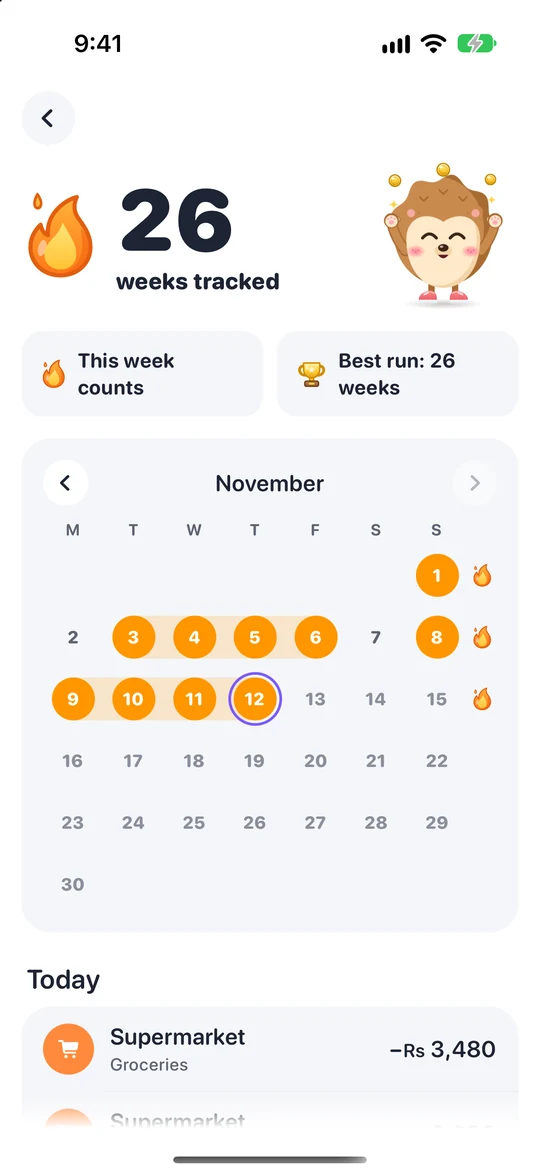
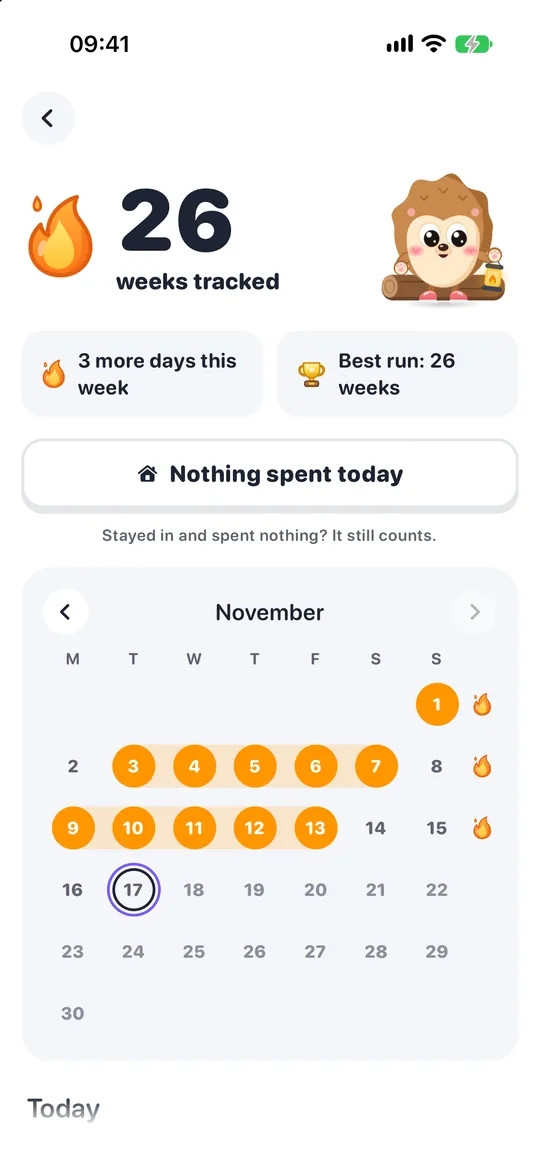
Pouch screens: new Hedge's trip and streak shots
The trip shot shows the new forest trail under the clouds and is back in
the Hedge tab (Week counted stays as the page cover). The streak shot is
re-taken with Hedge's own look there, sitting on a log with his lantern.

diff --git a/work/pouch.html b/work/pouch.html
@@ -52,7 +52,7 @@
       </div><div class="demo compact">
         <div class="demo-phone"><div class="phone"><div class="screen"><video src="../video/pouch-trip.mp4" poster="../video/pouch-trip-poster.webp" muted loop playsinline preload="none" aria-label="Hedge&#x27;s trip"></video></div></div></div>
         <div class="demo-ctl"><h3>Hedge&#x27;s trip</h3><ol class="demo-steps"><li data-at="0"><button type="button"><span class="bar"><i></i></span><span class="k">Today</span><span class="d">Tap Hedge on Today.</span></button></li><li data-at="1.4"><button type="button"><span class="bar"><i></i></span><span class="k">Opens</span><span class="d">His trip opens on the forest trail.</span></button></li><li data-at="4.9"><button type="button"><span class="bar"><i></i></span><span class="k">Closes</span><span class="d">Close it and he lands back on Today.</span></button></li></ol><p class="demo-caption" aria-live="polite">Tap Hedge on Today.</p></div>
-      </div></div></section><section class="cs-sec" id="notes"><h2>Why each part is there</h2><p class="sub">Hover a note to find it on the screen.</p><div class="hss" data-reveal><figure class="hs"><div class="phone"><div class="screen"><img src="../img/apps/pouch-today.webp" alt="Why each part is there" loading="lazy" srcset="../img/apps/pouch-today-300.webp 300w, ../img/apps/pouch-today.webp 540w" sizes="(max-width: 640px) 34vw, (max-width: 900px) 160px, 240px"></div><span class="hs-dot" data-n="1" style="left:8.9%;top:22.9%">1</span><span class="hs-dot" data-n="2" style="left:91.1%;top:31.9%">2</span><span class="hs-dot" data-n="3" style="left:8.9%;top:45.2%">3</span><span class="hs-dot" data-n="4" style="left:67.9%;top:82.3%">4</span></div><ol class="hs-list"><li data-n="1"><span class="hs-n">1</span><div><b>One number first</b><span>Safe to spend, worked out for you.</span></div></li><li data-n="2"><span class="hs-n">2</span><div><b>Never red</b><span>Past the plan it says extra, in grey.</span></div></li><li data-n="3"><span class="hs-n">3</span><div><b>Savings in one tap</b><span>The pouch fills as you save.</span></div></li><li data-n="4"><span class="hs-n">4</span><div><b>In thumb reach</b><span>Add sits bottom right.</span></div></li></ol></figure><figure class="hs"><div class="phone"><div class="screen"><img src="../img/apps/pouch-paste-filled.webp" alt="Why each part is there" loading="lazy" srcset="../img/apps/pouch-paste-filled-300.webp 300w, ../img/apps/pouch-paste-filled.webp 540w" sizes="(max-width: 640px) 34vw, (max-width: 900px) 160px, 240px"></div><span class="hs-dot" data-n="5" style="left:91.1%;top:20.6%">5</span><span class="hs-dot" data-n="6" style="left:8.9%;top:30.0%">6</span><span class="hs-dot" data-n="7" style="left:91.1%;top:43.4%">7</span><span class="hs-dot" data-n="8" style="left:8.9%;top:76.6%">8</span></div><ol class="hs-list"><li data-n="5"><span class="hs-n">5</span><div><b>Hedge reacts</b><span>He says how the spend fits today.</span></div></li><li data-n="6"><span class="hs-n">6</span><div><b>Today&#x27;s range</b><span>See where it lands before saving.</span></div></li><li data-n="7"><span class="hs-n">7</span><div><b>Filled from the bank text</b><span>Shop and card come from the SMS.</span></div></li><li data-n="8"><span class="hs-n">8</span><div><b>A keypad of its own</b><span>Never hidden by the keyboard.</span></div></li></ol></figure></div></section><section class="cs-sec" id="cuts"><h2>What I cut and why</h2><p class="sub">Two things I built, then took out.</p><div class="bas" data-reveal><div class="ba"><div class="ba-top"><b>Red when you overspend</b><span>Guilt stops people logging.</span></div><div class="ba-pair"><div class="ba-side is-before"><small>Before</small><em class="mini-l">Groceries</em><span class="mini"><i style="width:100%"></i></span><em class="mini-t">Rs 520 over</em></div><div class="ba-side is-now"><small>Now</small><em class="mini-l">Groceries</em><span class="mini"><i style="width:100%"></i></span><em class="mini-t">Rs 520 extra</em></div></div></div><div class="ba"><div class="ba-top"><b>A minus balance</b><span>A minus reads as failure.</span></div><div class="ba-pair"><div class="ba-side is-before"><small>Before</small><em class="mini-l">Safe to spend today</em><em class="mini-big">-Rs 1,200</em></div><div class="ba-side is-now"><small>Now</small><em class="mini-l">Safe to spend today</em><em class="mini-big">Rs 0</em></div></div></div></div></section><section class="cs-sec" id="screens"><h2>Screens</h2><p class="sub">Pick a part of the app.</p><div class="viewer" data-reveal><div class="vw-tabs" role="tablist"><button type="button" class="vw-tab is-on" role="tab" aria-selected="true">Setup</button><button type="button" class="vw-tab" role="tab" aria-selected="false">Log a spend</button><button type="button" class="vw-tab" role="tab" aria-selected="false">Budget</button><button type="button" class="vw-tab" role="tab" aria-selected="false">Wallets and big buys</button><button type="button" class="vw-tab" role="tab" aria-selected="false">Any currency</button><button type="button" class="vw-tab" role="tab" aria-selected="false">Hedge</button><button type="button" class="vw-tab" role="tab" aria-selected="false">Dark mode</button></div><div class="vw-panel is-on" role="tabpanel"><div class="vw-row"><figure><div class="phone"><div class="screen"><img src="../img/apps/pouch-welcome.webp" alt="Pouch, The welcome: Hedge climbs the Pouch wall." loading="lazy" decoding="async" srcset="../img/apps/pouch-welcome-300.webp 300w, ../img/apps/pouch-welcome.webp 540w" sizes="(max-width: 640px) 34vw, (max-width: 900px) 160px, 240px"></div></div><figcaption><span class="n">1</span>The welcome: Hedge climbs the Pouch wall.</figcaption></figure><figure><div class="phone"><div class="screen"><img src="../img/apps/pouch-split.webp" alt="Pouch, Split your pay until All planned." loading="lazy" decoding="async" srcset="../img/apps/pouch-split-300.webp 300w, ../img/apps/pouch-split.webp 540w" sizes="(max-width: 640px) 34vw, (max-width: 900px) 160px, 240px"></div></div><figcaption><span class="n">2</span>Split your pay until All planned.</figcaption></figure><figure><div class="phone"><div class="screen"><img src="../img/apps/pouch-today.webp" alt="Pouch, Today shows what is safe to spend." loading="lazy" decoding="async" srcset="../img/apps/pouch-today-300.webp 300w, ../img/apps/pouch-today.webp 540w" sizes="(max-width: 640px) 34vw, (max-width: 900px) 160px, 240px"></div></div><figcaption><span class="n">3</span>Today shows what is safe to spend.</figcaption></figure></div></div><div class="vw-panel" role="tabpanel"><div class="vw-row"><figure><div class="phone"><div class="screen"><img src="../img/apps/pouch-paste-row.webp" alt="Pouch, Copy a bank text and Paste appears." loading="lazy" decoding="async" srcset="../img/apps/pouch-paste-row-300.webp 300w, ../img/apps/pouch-paste-row.webp 540w" sizes="(max-width: 640px) 34vw, (max-width: 900px) 160px, 240px"></div></div><figcaption><span class="n">1</span>Copy a bank text and Paste appears.</figcaption></figure><figure><div class="phone"><div class="screen"><img src="../img/apps/pouch-paste-filled.webp" alt="Pouch, One tap fills in the amount and shop." loading="lazy" decoding="async" srcset="../img/apps/pouch-paste-filled-300.webp 300w, ../img/apps/pouch-paste-filled.webp 540w" sizes="(max-width: 640px) 34vw, (max-width: 900px) 160px, 240px"></div></div><figcaption><span class="n">2</span>One tap fills in the amount and shop.</figcaption></figure><figure><div class="phone"><div class="screen"><img src="../img/apps/pouch-add-these.webp" alt="Pouch, Siri payments wait on Today." loading="lazy" decoding="async" srcset="../img/apps/pouch-add-these-300.webp 300w, ../img/apps/pouch-add-these.webp 540w" sizes="(max-width: 640px) 34vw, (max-width: 900px) 160px, 240px"></div></div><figcaption><span class="n">3</span>Siri payments wait on Today.</figcaption></figure></div></div><div class="vw-panel" role="tabpanel"><div class="vw-row"><figure><div class="phone"><div class="screen"><img src="../img/apps/pouch-budget.webp" alt="Pouch, Categories in families, with what is left." loading="lazy" decoding="async" srcset="../img/apps/pouch-budget-300.webp 300w, ../img/apps/pouch-budget.webp 540w" sizes="(max-width: 640px) 34vw, (max-width: 900px) 160px, 240px"></div></div><figcaption><span class="n">1</span>Categories in families, with what is left.</figcaption></figure><figure><div class="phone"><div class="screen"><img src="../img/apps/pouch-pot-edit.webp" alt="Pouch, Each has its own colour and icon." loading="lazy" decoding="async" srcset="../img/apps/pouch-pot-edit-300.webp 300w, ../img/apps/pouch-pot-edit.webp 540w" sizes="(max-width: 640px) 34vw, (max-width: 900px) 160px, 240px"></div></div><figcaption><span class="n">2</span>Each has its own colour and icon.</figcaption></figure><figure><div class="phone"><div class="screen"><img src="../img/apps/pouch-overview.webp" alt="Pouch, See where the month went." loading="lazy" decoding="async" srcset="../img/apps/pouch-overview-300.webp 300w, ../img/apps/pouch-overview.webp 540w" sizes="(max-width: 640px) 34vw, (max-width: 900px) 160px, 240px"></div></div><figcaption><span class="n">3</span>See where the month went.</figcaption></figure></div></div><div class="vw-panel" role="tabpanel"><div class="vw-row"><figure><div class="phone"><div class="screen"><img src="../img/apps/pouch-wallets.webp" alt="Pouch, Every wallet in one list." loading="lazy" decoding="async" srcset="../img/apps/pouch-wallets-300.webp 300w, ../img/apps/pouch-wallets.webp 540w" sizes="(max-width: 640px) 34vw, (max-width: 900px) 160px, 240px"></div></div><figcaption><span class="n">1</span>Every wallet in one list.</figcaption></figure><figure><div class="phone"><div class="screen"><img src="../img/apps/pouch-bigbuy-tiles.webp" alt="Pouch, Big buys paid off in parts." loading="lazy" decoding="async" srcset="../img/apps/pouch-bigbuy-tiles-300.webp 300w, ../img/apps/pouch-bigbuy-tiles.webp 540w" sizes="(max-width: 640px) 34vw, (max-width: 900px) 160px, 240px"></div></div><figcaption><span class="n">2</span>Big buys paid off in parts.</figcaption></figure><figure><div class="phone"><div class="screen"><img src="../img/apps/pouch-entries.webp" alt="Pouch, Every entry by day." loading="lazy" decoding="async" srcset="../img/apps/pouch-entries-300.webp 300w, ../img/apps/pouch-entries.webp 540w" sizes="(max-width: 640px) 34vw, (max-width: 900px) 160px, 240px"></div></div><figcaption><span class="n">3</span>Every entry by day.</figcaption></figure></div></div><div class="vw-panel" role="tabpanel"><div class="vw-row"><figure><div class="phone"><div class="screen"><img src="../img/apps/pouch-income.webp" alt="Pouch, Income has its own categories." loading="lazy" decoding="async" srcset="../img/apps/pouch-income-300.webp 300w, ../img/apps/pouch-income.webp 540w" sizes="(max-width: 640px) 34vw, (max-width: 900px) 160px, 240px"></div></div><figcaption><span class="n">1</span>Income has its own categories.</figcaption></figure><figure><div class="phone"><div class="screen"><img src="../img/apps/pouch-paid-in.webp" alt="Pouch, Paid from abroad? Today&#x27;s rate." loading="lazy" decoding="async" srcset="../img/apps/pouch-paid-in-300.webp 300w, ../img/apps/pouch-paid-in.webp 540w" sizes="(max-width: 640px) 34vw, (max-width: 900px) 160px, 240px"></div></div><figcaption><span class="n">2</span>Paid from abroad? Today&#x27;s rate.</figcaption></figure><figure><div class="phone"><div class="screen"><img src="../img/apps/pouch-today-si.webp" alt="Pouch, 13 languages, Sinhala and Tamil too." loading="lazy" decoding="async" srcset="../img/apps/pouch-today-si-300.webp 300w, ../img/apps/pouch-today-si.webp 540w" sizes="(max-width: 640px) 34vw, (max-width: 900px) 160px, 240px"></div></div><figcaption><span class="n">3</span>13 languages, Sinhala and Tamil too.</figcaption></figure></div></div><div class="vw-panel" role="tabpanel"><div class="vw-row"><figure><div class="phone"><div class="screen"><img src="../img/apps/pouch-celebrate-week.webp" alt="Pouch, He cheers every week you track." loading="lazy" decoding="async" srcset="../img/apps/pouch-celebrate-week-300.webp 300w, ../img/apps/pouch-celebrate-week.webp 540w" sizes="(max-width: 640px) 34vw, (max-width: 900px) 160px, 240px"></div></div><figcaption><span class="n">1</span>He cheers every week you track.</figcaption></figure><figure><div class="phone"><div class="screen"><img src="../img/apps/pouch-streak.webp" alt="Pouch, Weeks, not days, so quiet days count." loading="lazy" decoding="async" srcset="../img/apps/pouch-streak-300.webp 300w, ../img/apps/pouch-streak.webp 540w" sizes="(max-width: 640px) 34vw, (max-width: 900px) 160px, 240px"></div></div><figcaption><span class="n">2</span>Weeks, not days, so quiet days count.</figcaption></figure><figure><div class="phone"><div class="screen"><img src="../img/apps/pouch-wardrobe.webp" alt="Pouch, Gems buy outfits from a wardrobe of 51." loading="lazy" decoding="async" srcset="../img/apps/pouch-wardrobe-300.webp 300w, ../img/apps/pouch-wardrobe.webp 540w" sizes="(max-width: 640px) 34vw, (max-width: 900px) 160px, 240px"></div></div><figcaption><span class="n">3</span>Gems buy outfits from a wardrobe of 51.</figcaption></figure></div></div><div class="vw-panel" role="tabpanel"><div class="vw-row"><figure><div class="phone"><div class="screen"><img src="../img/apps/pouch-dark-today.webp" alt="Pouch, Today in dark mode." loading="lazy" decoding="async" srcset="../img/apps/pouch-dark-today-300.webp 300w, ../img/apps/pouch-dark-today.webp 540w" sizes="(max-width: 640px) 34vw, (max-width: 900px) 160px, 240px"></div></div><figcaption><span class="n">1</span>Today in dark mode.</figcaption></figure><figure><div class="phone"><div class="screen"><img src="../img/apps/pouch-dark-new.webp" alt="Pouch, A new entry, every colour checked for contrast." loading="lazy" decoding="async" srcset="../img/apps/pouch-dark-new-300.webp 300w, ../img/apps/pouch-dark-new.webp 540w" sizes="(max-width: 640px) 34vw, (max-width: 900px) 160px, 240px"></div></div><figcaption><span class="n">2</span>A new entry, every colour checked for contrast.</figcaption></figure><figure><div class="phone"><div class="screen"><img src="../img/apps/pouch-dark-budget.webp" alt="Pouch, Budget in dark mode." loading="lazy" decoding="async" srcset="../img/apps/pouch-dark-budget-300.webp 300w, ../img/apps/pouch-dark-budget.webp 540w" sizes="(max-width: 640px) 34vw, (max-width: 900px) 160px, 240px"></div></div><figcaption><span class="n">3</span>Budget in dark mode.</figcaption></figure></div></div><div class="vw-clock"><i></i></div></div></section><section class="cs-sec" id="next"><h2>What I learned and what is next</h2><div class="lns" data-reveal><div class="ln"><span class="ln-k">01</span><b>Kind beats strict</b><span>Friendly words keep people logging.</span></div><div class="ln"><span class="ln-k">02</span><b>I use it daily</b><span>Most fixes came from my own logging.</span></div><div class="ln is-next"><span class="ln-k">Next</span><b>Outside testers, then the App Store</b><span>Then watch days logged a week and time to log a spend.</span></div></div></section>
+      </div></div></section><section class="cs-sec" id="notes"><h2>Why each part is there</h2><p class="sub">Hover a note to find it on the screen.</p><div class="hss" data-reveal><figure class="hs"><div class="phone"><div class="screen"><img src="../img/apps/pouch-today.webp" alt="Why each part is there" loading="lazy" srcset="../img/apps/pouch-today-300.webp 300w, ../img/apps/pouch-today.webp 540w" sizes="(max-width: 640px) 34vw, (max-width: 900px) 160px, 240px"></div><span class="hs-dot" data-n="1" style="left:8.9%;top:22.9%">1</span><span class="hs-dot" data-n="2" style="left:91.1%;top:31.9%">2</span><span class="hs-dot" data-n="3" style="left:8.9%;top:45.2%">3</span><span class="hs-dot" data-n="4" style="left:67.9%;top:82.3%">4</span></div><ol class="hs-list"><li data-n="1"><span class="hs-n">1</span><div><b>One number first</b><span>Safe to spend, worked out for you.</span></div></li><li data-n="2"><span class="hs-n">2</span><div><b>Never red</b><span>Past the plan it says extra, in grey.</span></div></li><li data-n="3"><span class="hs-n">3</span><div><b>Savings in one tap</b><span>The pouch fills as you save.</span></div></li><li data-n="4"><span class="hs-n">4</span><div><b>In thumb reach</b><span>Add sits bottom right.</span></div></li></ol></figure><figure class="hs"><div class="phone"><div class="screen"><img src="../img/apps/pouch-paste-filled.webp" alt="Why each part is there" loading="lazy" srcset="../img/apps/pouch-paste-filled-300.webp 300w, ../img/apps/pouch-paste-filled.webp 540w" sizes="(max-width: 640px) 34vw, (max-width: 900px) 160px, 240px"></div><span class="hs-dot" data-n="5" style="left:91.1%;top:20.6%">5</span><span class="hs-dot" data-n="6" style="left:8.9%;top:30.0%">6</span><span class="hs-dot" data-n="7" style="left:91.1%;top:43.4%">7</span><span class="hs-dot" data-n="8" style="left:8.9%;top:76.6%">8</span></div><ol class="hs-list"><li data-n="5"><span class="hs-n">5</span><div><b>Hedge reacts</b><span>He says how the spend fits today.</span></div></li><li data-n="6"><span class="hs-n">6</span><div><b>Today&#x27;s range</b><span>See where it lands before saving.</span></div></li><li data-n="7"><span class="hs-n">7</span><div><b>Filled from the bank text</b><span>Shop and card come from the SMS.</span></div></li><li data-n="8"><span class="hs-n">8</span><div><b>A keypad of its own</b><span>Never hidden by the keyboard.</span></div></li></ol></figure></div></section><section class="cs-sec" id="cuts"><h2>What I cut and why</h2><p class="sub">Two things I built, then took out.</p><div class="bas" data-reveal><div class="ba"><div class="ba-top"><b>Red when you overspend</b><span>Guilt stops people logging.</span></div><div class="ba-pair"><div class="ba-side is-before"><small>Before</small><em class="mini-l">Groceries</em><span class="mini"><i style="width:100%"></i></span><em class="mini-t">Rs 520 over</em></div><div class="ba-side is-now"><small>Now</small><em class="mini-l">Groceries</em><span class="mini"><i style="width:100%"></i></span><em class="mini-t">Rs 520 extra</em></div></div></div><div class="ba"><div class="ba-top"><b>A minus balance</b><span>A minus reads as failure.</span></div><div class="ba-pair"><div class="ba-side is-before"><small>Before</small><em class="mini-l">Safe to spend today</em><em class="mini-big">-Rs 1,200</em></div><div class="ba-side is-now"><small>Now</small><em class="mini-l">Safe to spend today</em><em class="mini-big">Rs 0</em></div></div></div></div></section><section class="cs-sec" id="screens"><h2>Screens</h2><p class="sub">Pick a part of the app.</p><div class="viewer" data-reveal><div class="vw-tabs" role="tablist"><button type="button" class="vw-tab is-on" role="tab" aria-selected="true">Setup</button><button type="button" class="vw-tab" role="tab" aria-selected="false">Log a spend</button><button type="button" class="vw-tab" role="tab" aria-selected="false">Budget</button><button type="button" class="vw-tab" role="tab" aria-selected="false">Wallets and big buys</button><button type="button" class="vw-tab" role="tab" aria-selected="false">Any currency</button><button type="button" class="vw-tab" role="tab" aria-selected="false">Hedge</button><button type="button" class="vw-tab" role="tab" aria-selected="false">Dark mode</button></div><div class="vw-panel is-on" role="tabpanel"><div class="vw-row"><figure><div class="phone"><div class="screen"><img src="../img/apps/pouch-welcome.webp" alt="Pouch, The welcome: Hedge climbs the Pouch wall." loading="lazy" decoding="async" srcset="../img/apps/pouch-welcome-300.webp 300w, ../img/apps/pouch-welcome.webp 540w" sizes="(max-width: 640px) 34vw, (max-width: 900px) 160px, 240px"></div></div><figcaption><span class="n">1</span>The welcome: Hedge climbs the Pouch wall.</figcaption></figure><figure><div class="phone"><div class="screen"><img src="../img/apps/pouch-split.webp" alt="Pouch, Split your pay until All planned." loading="lazy" decoding="async" srcset="../img/apps/pouch-split-300.webp 300w, ../img/apps/pouch-split.webp 540w" sizes="(max-width: 640px) 34vw, (max-width: 900px) 160px, 240px"></div></div><figcaption><span class="n">2</span>Split your pay until All planned.</figcaption></figure><figure><div class="phone"><div class="screen"><img src="../img/apps/pouch-today.webp" alt="Pouch, Today shows what is safe to spend." loading="lazy" decoding="async" srcset="../img/apps/pouch-today-300.webp 300w, ../img/apps/pouch-today.webp 540w" sizes="(max-width: 640px) 34vw, (max-width: 900px) 160px, 240px"></div></div><figcaption><span class="n">3</span>Today shows what is safe to spend.</figcaption></figure></div></div><div class="vw-panel" role="tabpanel"><div class="vw-row"><figure><div class="phone"><div class="screen"><img src="../img/apps/pouch-paste-row.webp" alt="Pouch, Copy a bank text and Paste appears." loading="lazy" decoding="async" srcset="../img/apps/pouch-paste-row-300.webp 300w, ../img/apps/pouch-paste-row.webp 540w" sizes="(max-width: 640px) 34vw, (max-width: 900px) 160px, 240px"></div></div><figcaption><span class="n">1</span>Copy a bank text and Paste appears.</figcaption></figure><figure><div class="phone"><div class="screen"><img src="../img/apps/pouch-paste-filled.webp" alt="Pouch, One tap fills in the amount and shop." loading="lazy" decoding="async" srcset="../img/apps/pouch-paste-filled-300.webp 300w, ../img/apps/pouch-paste-filled.webp 540w" sizes="(max-width: 640px) 34vw, (max-width: 900px) 160px, 240px"></div></div><figcaption><span class="n">2</span>One tap fills in the amount and shop.</figcaption></figure><figure><div class="phone"><div class="screen"><img src="../img/apps/pouch-add-these.webp" alt="Pouch, Siri payments wait on Today." loading="lazy" decoding="async" srcset="../img/apps/pouch-add-these-300.webp 300w, ../img/apps/pouch-add-these.webp 540w" sizes="(max-width: 640px) 34vw, (max-width: 900px) 160px, 240px"></div></div><figcaption><span class="n">3</span>Siri payments wait on Today.</figcaption></figure></div></div><div class="vw-panel" role="tabpanel"><div class="vw-row"><figure><div class="phone"><div class="screen"><img src="../img/apps/pouch-budget.webp" alt="Pouch, Categories in families, with what is left." loading="lazy" decoding="async" srcset="../img/apps/pouch-budget-300.webp 300w, ../img/apps/pouch-budget.webp 540w" sizes="(max-width: 640px) 34vw, (max-width: 900px) 160px, 240px"></div></div><figcaption><span class="n">1</span>Categories in families, with what is left.</figcaption></figure><figure><div class="phone"><div class="screen"><img src="../img/apps/pouch-pot-edit.webp" alt="Pouch, Each has its own colour and icon." loading="lazy" decoding="async" srcset="../img/apps/pouch-pot-edit-300.webp 300w, ../img/apps/pouch-pot-edit.webp 540w" sizes="(max-width: 640px) 34vw, (max-width: 900px) 160px, 240px"></div></div><figcaption><span class="n">2</span>Each has its own colour and icon.</figcaption></figure><figure><div class="phone"><div class="screen"><img src="../img/apps/pouch-overview.webp" alt="Pouch, See where the month went." loading="lazy" decoding="async" srcset="../img/apps/pouch-overview-300.webp 300w, ../img/apps/pouch-overview.webp 540w" sizes="(max-width: 640px) 34vw, (max-width: 900px) 160px, 240px"></div></div><figcaption><span class="n">3</span>See where the month went.</figcaption></figure></div></div><div class="vw-panel" role="tabpanel"><div class="vw-row"><figure><div class="phone"><div class="screen"><img src="../img/apps/pouch-wallets.webp" alt="Pouch, Every wallet in one list." loading="lazy" decoding="async" srcset="../img/apps/pouch-wallets-300.webp 300w, ../img/apps/pouch-wallets.webp 540w" sizes="(max-width: 640px) 34vw, (max-width: 900px) 160px, 240px"></div></div><figcaption><span class="n">1</span>Every wallet in one list.</figcaption></figure><figure><div class="phone"><div class="screen"><img src="../img/apps/pouch-bigbuy-tiles.webp" alt="Pouch, Big buys paid off in parts." loading="lazy" decoding="async" srcset="../img/apps/pouch-bigbuy-tiles-300.webp 300w, ../img/apps/pouch-bigbuy-tiles.webp 540w" sizes="(max-width: 640px) 34vw, (max-width: 900px) 160px, 240px"></div></div><figcaption><span class="n">2</span>Big buys paid off in parts.</figcaption></figure><figure><div class="phone"><div class="screen"><img src="../img/apps/pouch-entries.webp" alt="Pouch, Every entry by day." loading="lazy" decoding="async" srcset="../img/apps/pouch-entries-300.webp 300w, ../img/apps/pouch-entries.webp 540w" sizes="(max-width: 640px) 34vw, (max-width: 900px) 160px, 240px"></div></div><figcaption><span class="n">3</span>Every entry by day.</figcaption></figure></div></div><div class="vw-panel" role="tabpanel"><div class="vw-row"><figure><div class="phone"><div class="screen"><img src="../img/apps/pouch-income.webp" alt="Pouch, Income has its own categories." loading="lazy" decoding="async" srcset="../img/apps/pouch-income-300.webp 300w, ../img/apps/pouch-income.webp 540w" sizes="(max-width: 640px) 34vw, (max-width: 900px) 160px, 240px"></div></div><figcaption><span class="n">1</span>Income has its own categories.</figcaption></figure><figure><div class="phone"><div class="screen"><img src="../img/apps/pouch-paid-in.webp" alt="Pouch, Paid from abroad? Today&#x27;s rate." loading="lazy" decoding="async" srcset="../img/apps/pouch-paid-in-300.webp 300w, ../img/apps/pouch-paid-in.webp 540w" sizes="(max-width: 640px) 34vw, (max-width: 900px) 160px, 240px"></div></div><figcaption><span class="n">2</span>Paid from abroad? Today&#x27;s rate.</figcaption></figure><figure><div class="phone"><div class="screen"><img src="../img/apps/pouch-today-si.webp" alt="Pouch, 13 languages, Sinhala and Tamil too." loading="lazy" decoding="async" srcset="../img/apps/pouch-today-si-300.webp 300w, ../img/apps/pouch-today-si.webp 540w" sizes="(max-width: 640px) 34vw, (max-width: 900px) 160px, 240px"></div></div><figcaption><span class="n">3</span>13 languages, Sinhala and Tamil too.</figcaption></figure></div></div><div class="vw-panel" role="tabpanel"><div class="vw-row"><figure><div class="phone"><div class="screen"><img src="../img/apps/pouch-trip.webp" alt="Pouch, Tap him for his trip through the woods." loading="lazy" decoding="async" srcset="../img/apps/pouch-trip-300.webp 300w, ../img/apps/pouch-trip.webp 540w" sizes="(max-width: 640px) 34vw, (max-width: 900px) 160px, 240px"></div></div><figcaption><span class="n">1</span>Tap him for his trip through the woods.</figcaption></figure><figure><div class="phone"><div class="screen"><img src="../img/apps/pouch-streak.webp" alt="Pouch, Weeks, not days, so quiet days count." loading="lazy" decoding="async" srcset="../img/apps/pouch-streak-300.webp 300w, ../img/apps/pouch-streak.webp 540w" sizes="(max-width: 640px) 34vw, (max-width: 900px) 160px, 240px"></div></div><figcaption><span class="n">2</span>Weeks, not days, so quiet days count.</figcaption></figure><figure><div class="phone"><div class="screen"><img src="../img/apps/pouch-wardrobe.webp" alt="Pouch, Gems buy outfits from a wardrobe of 51." loading="lazy" decoding="async" srcset="../img/apps/pouch-wardrobe-300.webp 300w, ../img/apps/pouch-wardrobe.webp 540w" sizes="(max-width: 640px) 34vw, (max-width: 900px) 160px, 240px"></div></div><figcaption><span class="n">3</span>Gems buy outfits from a wardrobe of 51.</figcaption></figure></div></div><div class="vw-panel" role="tabpanel"><div class="vw-row"><figure><div class="phone"><div class="screen"><img src="../img/apps/pouch-dark-today.webp" alt="Pouch, Today in dark mode." loading="lazy" decoding="async" srcset="../img/apps/pouch-dark-today-300.webp 300w, ../img/apps/pouch-dark-today.webp 540w" sizes="(max-width: 640px) 34vw, (max-width: 900px) 160px, 240px"></div></div><figcaption><span class="n">1</span>Today in dark mode.</figcaption></figure><figure><div class="phone"><div class="screen"><img src="../img/apps/pouch-dark-new.webp" alt="Pouch, A new entry, every colour checked for contrast." loading="lazy" decoding="async" srcset="../img/apps/pouch-dark-new-300.webp 300w, ../img/apps/pouch-dark-new.webp 540w" sizes="(max-width: 640px) 34vw, (max-width: 900px) 160px, 240px"></div></div><figcaption><span class="n">2</span>A new entry, every colour checked for contrast.</figcaption></figure><figure><div class="phone"><div class="screen"><img src="../img/apps/pouch-dark-budget.webp" alt="Pouch, Budget in dark mode." loading="lazy" decoding="async" srcset="../img/apps/pouch-dark-budget-300.webp 300w, ../img/apps/pouch-dark-budget.webp 540w" sizes="(max-width: 640px) 34vw, (max-width: 900px) 160px, 240px"></div></div><figcaption><span class="n">3</span>Budget in dark mode.</figcaption></figure></div></div><div class="vw-clock"><i></i></div></div></section><section class="cs-sec" id="next"><h2>What I learned and what is next</h2><div class="lns" data-reveal><div class="ln"><span class="ln-k">01</span><b>Kind beats strict</b><span>Friendly words keep people logging.</span></div><div class="ln"><span class="ln-k">02</span><b>I use it daily</b><span>Most fixes came from my own logging.</span></div><div class="ln is-next"><span class="ln-k">Next</span><b>Outside testers, then the App Store</b><span>Then watch days logged a week and time to log a spend.</span></div></div></section>
   <nav class="next" id="next-case" aria-label="Next case study">
     <a href="cloudia.html" style="--n-soft:#e6f1ff">
       <div class="next-text"><small>Next case study</small><b>Cloudia</b><p>My iOS app for the small promises too small for a calendar.</p><span class="case-cta">Read next <svg viewBox="0 0 24 24" aria-hidden="true"><path d="M5 12h14M13 6l6 6-6 6"/></svg></span></div>
